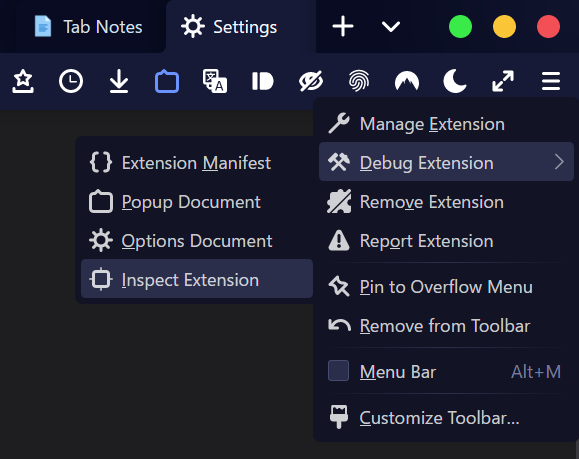
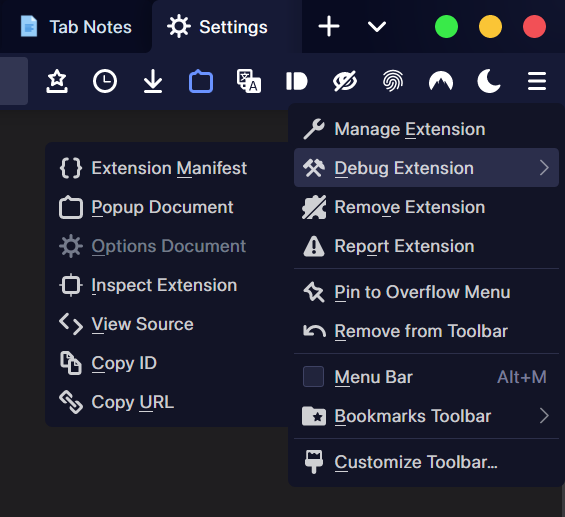
add more context menu items; debug extension context menu expanded.

diff --git a/script/debugExtensionInToolbarContextMenu.uc.js b/script/debugExtensionInToolbarContextMenu.uc.js
@@ -1,9 +1,9 @@
 // ==UserScript==
 // @name           Debug Extension in Toolbar Context Menu
-// @version        1.1
+// @version        1.2
 // @author         aminomancer
 // @homepage       https://github.com/aminomancer/uc.css.js
-// @description    Adds a new context menu when right-clicking an add-on's toolbar button, any time the "Manage Extension" and "Remove Extension" items are available. The new "Debug Extension" menu contains 4 items: "Extension Manifest" will open the extension's manifest directly in a new tab. Aside from reading the manifest, from there you can also see the whole contents of the extension by removing "/manifest.json" from the URL. "Popup Document" will open the extension's popup URL (if it has one) in a regular browser window. The popup URL is whatever document it displays in its panel view. "Options Document" will open the document that the extension displays in its submenu on about:addons, also in a regular browser window. Finally, "Inspect Extension" will open a devtools tab targeting the extension background. This is the same page you'd get if you opened about:debugging and clicked the "Inspect" button next to an extension. The menu items' labels are not localized automatically since Firefox doesn't include any similar strings. If you need to change the language or anything, modify the strings below under "static config." As usual, icons for the new menu are included in uc-context-menu-icons.css
+// @description    Adds a new context menu when right-clicking an add-on's button in the toolbar or urlbar, any time the "Manage Extension" and "Remove Extension" items are available. The new "Debug Extension" menu contains 7 items: "Extension Manifest" opens the extension's manifest directly in a new tab. Aside from reading the manifest, from there you can also see the whole contents of the extension by removing "/manifest.json" from the URL. "Popup Document" opens the extension's popup URL (if it has one) in a regular browser window. The popup URL is whatever document it displays in its panel view. "Options Document" opens the document that the extension displays in its submenu on about:addons, also in a regular browser window. "Inspect Extension" opens a devtools tab targeting the extension background. This is the same page you'd get if you opened about:debugging and clicked the "Inspect" button next to an extension. "View Source" opens the addon's .xpi archive. And, as you'd expect, "Copy ID" copies the extension's ID to your clipboard, while "Copy URL" copies the extension's base URL, so it can be used in CSS rules like @-moz-document. The menu items' labels are not localized automatically since Firefox doesn't include any similar strings. If you need to change the language or anything, modify the strings below under "static config." As usual, icons for the new menu are included in uc-context-menu-icons.css
 // ==/UserScript==
 
 class DebugExtension {
@@ -37,11 +37,30 @@ class DebugExtension {
             label: "Inspect Extension",
             accesskey: "I",
         },
+        ViewSource: {
+            label: "View Source",
+            accesskey: "V",
+        },
+        CopyID: {
+            label: "Copy ID",
+            accesskey: "C",
+        },
+        CopyURL: {
+            label: "Copy URL",
+            accesskey: "U",
+        },
     };
     // end user configuration
-    static menuitems = ["Manifest", "Popup", "Options", "Inspector"];
+    static menuitems = [
+        "Manifest",
+        "Popup",
+        "Options",
+        "Inspector",
+        "ViewSource",
+        "CopyID",
+        "CopyURL",
+    ];
     constructor() {
-        this.setupCallback();
         this.setupUpdate();
         this.toolbarMenu = this.makeMenu(this.toolbarContext);
         this.toolbarMenupopup = this.toolbarMenu.appendChild(
@@ -53,11 +72,31 @@ class DebugExtension {
             document.createXULElement("menupopup")
         );
         this.overflowMenupopup.addEventListener("popupshowing", this);
-        // make a menu item for each type of page
-        DebugExtension.menuitems.forEach((type) => {
-            this[`toolbar${type}MenuItem`] = this.makeMenuItem(type, this.toolbarMenupopup);
-            this[`overflow${type}MenuItem`] = this.makeMenuItem(type, this.overflowMenupopup);
-        });
+        this.pageActionMenu = this.makeMenu(this.pageActionContext);
+        this.pageActionMenupopup = this.pageActionMenu.appendChild(
+            document.createXULElement("menupopup")
+        );
+        this.pageActionMenupopup.addEventListener("popupshowing", this);
+        // make a menu item for each type of page within each context
+        DebugExtension.menuitems.forEach((type) =>
+            ["toolbar", "overflow", "pageAction"].forEach(
+                (context) =>
+                    (this[`${context}${type}Menuitem`] = this.makeMenuitem(
+                        type,
+                        this[`${context}Menupopup`]
+                    ))
+            )
+        );
+    }
+    /**
+     * set a bunch of attributes on a node
+     * @param {object} element (a DOM node)
+     * @param {object} attrs (an object containing properties — keys are turned into attributes on the DOM node)
+     */
+    maybeSetAttributes(element, attrs) {
+        for (let [name, value] of Object.entries(attrs))
+            if (value === void 0) element.removeAttribute(name);
+            else element.setAttribute(name, value);
     }
     get toolbarContext() {
         return (
@@ -71,33 +110,43 @@ class DebugExtension {
             (this._overflowContext = document.getElementById("customizationPanelItemContextMenu"))
         );
     }
-    /**
-     * set a bunch of attributes on a node
-     * @param {object} node (a DOM node)
-     * @param {object} attrs (an object containing properties — keys are turned into attributes on the DOM node)
-     */
-    setAttributes(node, attrs) {
-        for (const [key, val] of Object.entries(attrs)) node.setAttribute(key, val);
+    get pageActionContext() {
+        return (
+            this._pageActionContext ||
+            (this._pageActionContext = document.getElementById("pageActionContextMenu"))
+        );
     }
     // enable/disable menu items depending on whether the clicked extension has pages available to open.
     handleEvent(e) {
-        let id = ToolbarContextMenu._getExtensionId(e.target);
+        if (e.target !== e.currentTarget) return;
+        let popup = e.target;
+        let id = this.getExtensionId(popup);
         if (!id) return;
         let extension = WebExtensionPolicy.getByID(id).extension;
-        this.toolbarPopupMenuItem.disabled = this.overflowPopupMenuItem =
+        popup.querySelector(".customize-context-openPopup").disabled =
             !extension.manifest.browser_action?.default_popup;
-        this.toolbarOptionsMenuItem.disabled = this.overflowOptionsMenuItem.disabled =
+        popup.querySelector(".customize-context-openOptions").disabled =
             !extension.manifest.options_ui?.page;
+        popup.querySelector(".customize-context-openViewSource").disabled =
+            extension.addonData.isSystem ||
+            extension.addonData.builtIn ||
+            extension.addonData.temporarilyInstalled;
     }
     makeMenu(popup) {
         let menu = document.createXULElement("menu");
-        this.setAttributes(menu, {
+        this.maybeSetAttributes(menu, {
             class: "customize-context-debugExtension",
             label: DebugExtension.config.menuLabel,
             accesskey: DebugExtension.config.menuAccessKey,
-            contexttype: "toolbaritem",
+            contexttype: popup === this.pageActionContext ? void 0 : "toolbaritem",
         });
-        popup.querySelector(".customize-context-manageExtension").after(menu);
+        popup
+            .querySelector(
+                popup === this.pageActionContext
+                    ? ".manageExtensionItem"
+                    : ".customize-context-manageExtension"
+            )
+            .after(menu);
         return menu;
     }
     /**
@@ -105,66 +154,91 @@ class DebugExtension {
      * @param {string} type (equal to "Manifest", "Popup", or "Options")
      * @returns a menuitem DOM node
      */
-    makeMenuItem(type, popup) {
+    makeMenuitem(type, popup) {
         let item = document.createXULElement("menuitem");
-        this.setAttributes(item, {
+        this.maybeSetAttributes(item, {
             class: `customize-context-open${type}`,
             label: DebugExtension.config[type].label,
             accesskey: DebugExtension.config[type].accesskey,
-            oncommand: `ToolbarContextMenu.openExtensionURL(event, this.parentElement, "${type}")`,
-            contexttype: "toolbaritem",
+            oncommand: `debugExtensionMenu.onCommand(event, this.parentElement, "${type}")`,
+            contexttype: popup === this.pageActionMenupopup ? void 0 : "toolbaritem",
         });
         popup.appendChild(item);
         return item;
     }
-    // set the command callback function on a globally accessible object so it can be invoked from oncommand attributes
-    setupCallback() {
-        ToolbarContextMenu.openExtensionURL = function (event, popup, type) {
-            let id = this._getExtensionId(popup); // get the ID for the toolbar button the context menu was opened on
-            let extension = WebExtensionPolicy.getByID(id).extension; // this contains information about an extension with a given ID.
-            // use extension's principal if it's available.
-            let triggeringPrincipal = extension.principal;
-            let url;
-            // which type of page to open. the "type" value passed is different for each menu item.
-            switch (type) {
-                case "Manifest":
-                    url = extension.baseURL + `manifest.json`;
-                    break;
-                case "Popup":
-                    url = extension.manifest.browser_action?.default_popup;
-                    break;
-                case "Options":
-                    url = extension.manifest.options_ui?.page;
-                    break;
-                case "Inspector":
-                    url = `about:devtools-toolbox?id=${encodeURIComponent(id)}&type=extension`;
-                    triggeringPrincipal = Services.scriptSecurityManager.getSystemPrincipal(); // use the system principal for about:devtools-toolbox
-                    break;
-            }
-            // if the extension's principal isn't available for some reason, make a content principal.
-            if (!triggeringPrincipal)
-                triggeringPrincipal = Services.scriptSecurityManager.createContentPrincipal(
-                    Services.io.newURI(url),
-                    {}
-                );
-            // whether to open in the current tab or a new tab.
-            // only opens in the current tab if the current tab is on the new tab page or home page.
-            let where = new RegExp(`(${BROWSER_NEW_TAB_URL}|${HomePage.get(window)})`, "i").test(
-                gBrowser.currentURI.spec
-            )
-                ? "current"
-                : "tab";
-            openLinkIn(url, where, {
-                triggeringPrincipal,
-                // only open in the background if the shift key was pressed when the menu item was clicked
-                inBackground: event.shiftKey,
-            });
-        };
+    // get the ID for the button the context menu was opened on
+    getExtensionId(popup) {
+        if (popup === this.pageActionMenupopup || popup === this.pageActionContext)
+            return BrowserPageActions.actionForNode(popup.triggerNode).extensionID;
+        else return ToolbarContextMenu._getExtensionId(popup);
     }
-    // modify the internal updateExtension function that updates the visibility
+    // click callback
+    onCommand(event, popup, type) {
+        let id = this.getExtensionId(popup);
+        let extension = WebExtensionPolicy.getByID(id).extension; // this contains information about an extension with a given ID.
+        // use extension's principal if it's available.
+        let triggeringPrincipal = extension.principal;
+        let url;
+        // which type of page to open. the "type" value passed is different for each menu item.
+        switch (type) {
+            case "Manifest":
+                url = extension.baseURL + `manifest.json`;
+                break;
+            case "Popup":
+                url = extension.manifest.browser_action?.default_popup;
+                break;
+            case "Options":
+                url = extension.manifest.options_ui?.page;
+                break;
+            case "Inspector":
+                url = `about:devtools-toolbox?id=${encodeURIComponent(id)}&type=extension`;
+                triggeringPrincipal = Services.scriptSecurityManager.getSystemPrincipal(); // use the system principal for about:devtools-toolbox
+                break;
+            case "ViewSource":
+                this.openArchive(id);
+                return;
+            case "CopyID":
+            case "CopyURL":
+                Cc["@mozilla.org/widget/clipboardhelper;1"]
+                    .getService(Ci.nsIClipboardHelper)
+                    .copyString(type === "CopyID" ? id : extension.baseURL);
+                if (windowUtils.getBoundsWithoutFlushing(popup.triggerNode).width)
+                    window.CustomHint?.show(popup.triggerNode, "Copied");
+                return;
+        }
+        // if the extension's principal isn't available for some reason, make a content principal.
+        if (!triggeringPrincipal)
+            triggeringPrincipal = Services.scriptSecurityManager.createContentPrincipal(
+                Services.io.newURI(url),
+                {}
+            );
+        // whether to open in the current tab or a new tab.
+        // only opens in the current tab if the current tab is on the new tab page or home page.
+        let where = new RegExp(`(${BROWSER_NEW_TAB_URL}|${HomePage.get(window)})`, "i").test(
+            gBrowser.currentURI.spec
+        )
+            ? "current"
+            : "tab";
+        openLinkIn(url, where, {
+            triggeringPrincipal,
+            // only open in the background if the shift key was pressed when the menu item was clicked
+            inBackground: event.shiftKey,
+        });
+    }
+    /**
+     * open a given addon's source xpi file
+     * @param {string} id (an addon's ID)
+     */
+    openArchive(id) {
+        let dir = Services.dirsvc.get("ProfD", Ci.nsIFile);
+        dir.append("extensions");
+        dir.append(id + ".xpi");
+        dir.launch();
+    }
+    // modify the internal functions that updates the visibility
     // of the built-in "remove extension," "manage extension" items, etc.
-    // based on whether the toolbar button that was clicked is an extension or not
-    // so that it also updates the visibility of our menu by the same parameter.
+    // that's based on whether the button that was clicked is an extension or not,
+    // so it also updates the visibility of our menu by the same parameter.
     setupUpdate() {
         eval(
             `ToolbarContextMenu.updateExtension = async function ` +
@@ -180,15 +254,26 @@ class DebugExtension {
                         `[removeExtension, manageExtension, debugExtension,`
                     )
         );
+        eval(
+            `BrowserPageActions.onContextMenuShowing = async function ` +
+                BrowserPageActions.onContextMenuShowing
+                    .toSource()
+                    .replace(/async onContextMenuShowing/, "")
+                    .replace(
+                        /(let removeExtension.*);/,
+                        `$1, debugExtension = popup.querySelector(".customize-context-debugExtension");`
+                    )
+                    .replace(/(removeExtension.hidden =)/, `$1 debugExtension.hidden =`)
+        );
     }
 }
 
-if (gBrowserInit.delayedStartupFinished) new DebugExtension();
+if (gBrowserInit.delayedStartupFinished) window.debugExtensionMenu = new DebugExtension();
 else {
     let delayedListener = (subject, topic) => {
         if (topic == "browser-delayed-startup-finished" && subject == window) {
             Services.obs.removeObserver(delayedListener, topic);
-            new DebugExtension();
+            window.debugExtensionMenu = new DebugExtension();
         }
     };
     Services.obs.addObserver(delayedListener, "browser-delayed-startup-finished");

diff --git a/uc-context-menu-icons.css b/uc-context-menu-icons.css
@@ -569,7 +569,7 @@ menuitem.customize-context-reportExtension:before {
     visibility: collapse;
 }
 
-:is(#context-viewframesource, #context-viewpartialsource-selection, #context-viewsource):before {
+:is(#context-viewframesource, #context-viewpartialsource-selection, #context-viewsource, menuitem.customize-context-openViewSource):before {
     background-image: url(chrome://userchrome/content/devtools/tool-dom.svg);
 }
 
@@ -727,7 +727,8 @@ menuitem#sanitizeItem:before {
 }
 
 :is(#context-copyimage-contents, #context-copy, #menu_copy, #placesContext_copy):before,
-.textbox-contextmenu menuitem[label="Copy"]:before {
+.textbox-contextmenu menuitem[label="Copy"]:before,
+menuitem.customize-context-openCopyID:before {
     background-image: url(chrome://userchrome/content/skin/edit-copy.svg);
 }
 
@@ -764,7 +765,7 @@ menuitem#sanitizeItem:before {
     background-image: url(chrome://userchrome/content/skin/mail.svg);
 }
 
-:is(#context-copyvideourl, #context-copyaudiourl, #context-copyimage, #context-copylink, #menu_openLocation):before {
+:is(#context-copyvideourl, #context-copyaudiourl, #context-copyimage, #context-copylink, #menu_openLocation, menuitem.customize-context-openCopyURL):before {
     background-image: url(chrome://userchrome/content/skin/link.svg);
 }
 

diff --git a/uc-urlbar.css b/uc-urlbar.css
@@ -187,7 +187,7 @@ toolbarpaletteitem[place="palette"] > #search-container {
 }
 
 /*
-hide the urlbar bookmark action on system pages,
+hide the urlbar bookmark action on some system pages,
 and on the new tab page if hideTrackingProtectionIconOnCustomNewTabPage.uc.js is installed.
 also do the same with the screenshot action, if screenshotPageActionButton.uc.js is installed.
 the screenshot action already hides itself on system pages and extension pages,
@@ -196,6 +196,7 @@ but CSS hides it faster and avoids flickering.
 */
 @supports (-moz-bool-pref("userChrome.urlbar.hide-bookmarks-button-on-system-pages")) {
     #tracking-protection-icon-container:is([hidden], :not([aria-label]))
+    ~ #identity-box:not(.chromeUI)
     ~ #page-action-buttons
     > :is(#star-button-box, #pageAction-urlbar-screenshot) {
         visibility: collapse;

diff --git a/README.md b/README.md
@@ -261,7 +261,7 @@ Adds a new hotkey (Ctrl+Alt+C by default) that copies whatever is in the urlbar,
 A utility script for other scripts to take advantage of. Sets up a global object (on the chrome window) for showing confirmation hints with custom messages. The built-in confirmation hint component can only show a few messages built into the browser's localization system. This script works just like the built-in confirmation hint, and uses the built-in confirmation hint element, but it accepts any arbitrary string as a parameter. So you can open a confirmation hint with *any* message, e.g. `CustomHint.show(anchorNode, "This is my custom message", {hideArrow: true, hideCheck: true, description: "Awesome.", duration: 3000})`</p><p>This script is entirely optional — some of my scripts take advantage of it, if it's present, but will not break if it's not present. My scripts that *require* it come with their own independent version of it built-in. It doesn't do anything on its own, it's sort of a micro-library. You may as well download it if you use any of my scripts, since it can't hurt anything and will provide useful feedback for some of my scripts. I'm uploading it as a separate component so other developers can use it, and to avoid adding too much redundant code in my other scripts.
 
 ####   [Debug Extension in Toolbar Context Menu](/script/debugExtensionInToolbarContextMenu.uc.js):
-Adds a new context menu when right-clicking an add-on's toolbar button, any time the "Manage Extension" and "Remove Extension" items are available. The new "Debug Extension" menu contains 4 items: "Extension Manifest" will open the extension's manifest directly in a new tab. Aside from reading the manifest, from there you can also see the whole contents of the extension by removing "/manifest.json" from the URL. "Popup Document" will open the extension's popup URL (if it has one) in a regular browser window. The popup URL is whatever document it displays in its panel view. "Options Document" will open the document that the extension displays in its submenu on about:addons, also in a regular browser window. Finally, "Inspect Extension" will open a devtools tab targeting the extension background. This is the same page you'd get if you opened about:debugging and clicked the "Inspect" button next to an extension.</p><details><summary><i><b>Click here for a preview.</b></i></summary><img src="preview/prev-debug-ext.webp" width="386"/></details>
+Adds a new context menu when right-clicking an add-on's button in the toolbar or urlbar, any time the "Manage Extension" and "Remove Extension" items are available. The new "Debug Extension" menu contains 7 items: *"Extension Manifest"* opens the extension's manifest directly in a new tab. Aside from reading the manifest, from there you can also see the whole contents of the extension by removing "/manifest.json" from the URL. *"Popup Document"* opens the extension's popup URL (if it has one) in a regular browser window. The popup URL is whatever document it displays in its panel view. *"Options Document"* opens the document that the extension displays in its submenu on about:addons, also in a regular browser window. *"Inspect Extension"* opens a devtools tab targeting the extension background. This is the same page you'd get if you opened about:debugging and clicked the "Inspect" button next to an extension. *"View Source"* opens the addon's .xpi archive. And, as you'd expect, *"Copy ID"* copies the extension's ID to your clipboard, while *"Copy URL"* copies the extension's base URL, so it can be used in CSS rules like `@-moz-document`</p><details><summary><i><b>Click here for a preview.</b></i></summary><img src="preview/prev-debug-ext.webp" width="386"/></details>
 
 ####   [Extension Options Panel](/script/extensionOptionsPanel.uc.js):
 This script creates a toolbar button that opens a popup panel where extensions can be configured, disabled, uninstalled, etc. Each extension gets its own button in the panel. Clicking an extension's button leads to a subview where you can jump to the extension's options, disable or enable the extension, uninstall it, configure automatic updates, disable/enable it in private browsing, view its source code in whatever program is associated with .xpi files, open the extension's homepage, or copy the extension's ID. The panel can also be opened from the App Menu, since the built-in "Add-ons and themes" button is replaced with an "Extensions" button that opens the panel, which in turn has an equivalent button inside it. Based on a [similar script](https://github.com/xiaoxiaoflood/firefox-scripts/blob/master/chrome/extensionOptionsMenu.uc.js) by xiaoxiaoflood, but will not be compatible with xiaoxiaoflood's loader. This one requires fx-autoconfig or Alice0775's loader. It opens a panel instead of a menupopup, for more consistency with other toolbar widgets. The script can be configured by editing the values in `static config` on line 11.</p><details><summary><i><b>Click here for a preview.</b></i></summary><img src="preview/prev-ext-opt-panel.webp"/></details>
